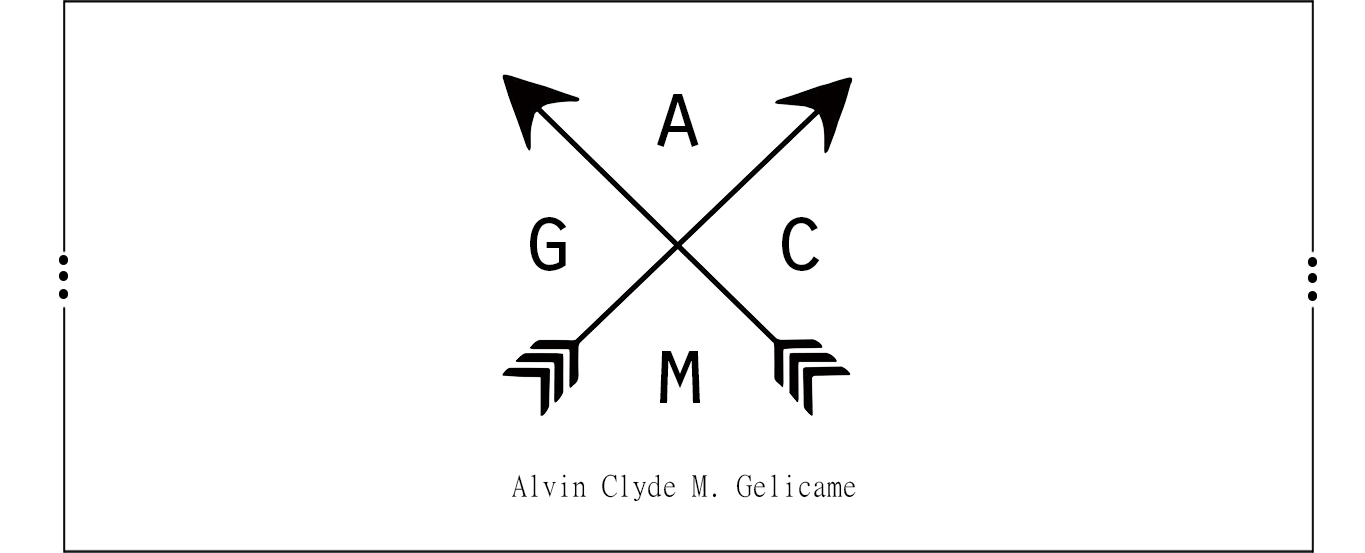
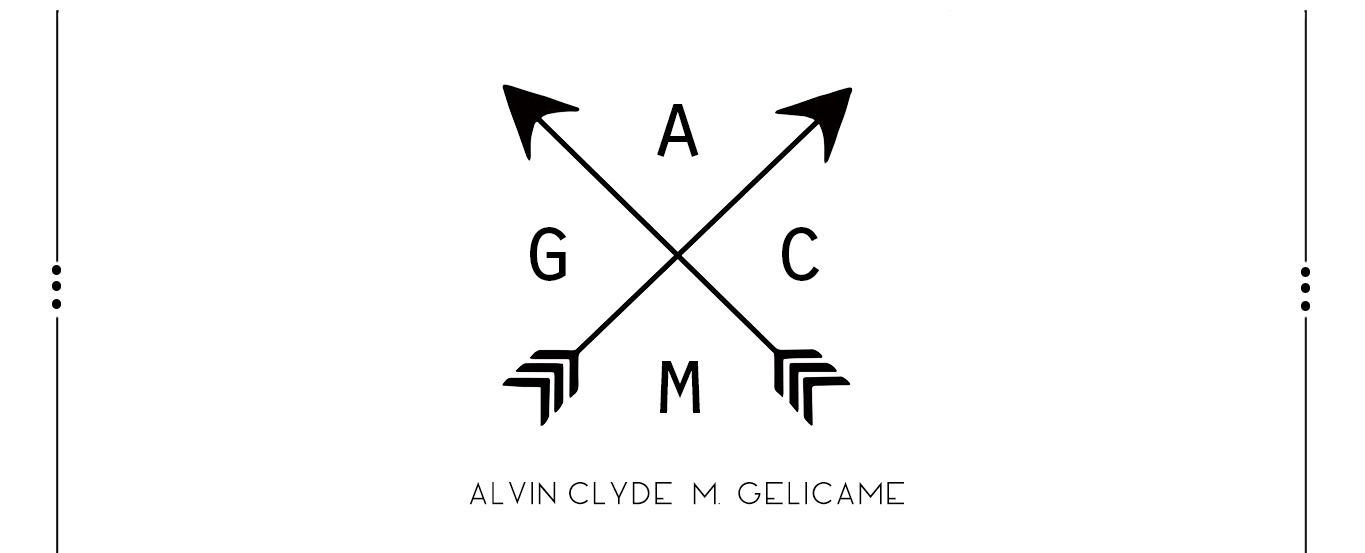
Modified background, Added photo about me, Added divider

diff --git a/Styles/Style.css b/Styles/Style.css
@@ -60,15 +60,20 @@
 	height: 5px;
 	padding-top: 81px;
 	background-color: #c45357;
+
 }
+
+
+
 
 #Header{
     width: 100%;
-    height: 74px;
+    height: 55px;
     background-color: black;
     position: fixed;
-    top: 0px;
+    top: -15px;
     left: 0px;
+    margin-bottom: 10px;
     
 }
 
@@ -78,34 +83,44 @@
 	height: 68px;  
 	background-color: #384255;
 	position: fixed; 
-	margin: 5px auto; 
+	margin: 0px auto; 
 }
 
-p, em{
+a {
 
-	font-family: "MingLiU-ExtB";
-	font-size: 20px;
-	text-align: center; 
-	margin-top: 23px;
-	margin-left: 35px;  
+	color: white;
+	font-family:MingLiU-ExtB; 
+	text-decoration: none;
+	font-size: 17px;
 	
 }
 
-p a:link, p a:visited, p a:active {
 
-	text-decoration: none;
-	color: white;
-	font-style: bold; 
+ul li {
+	
+	
+	float: right;
+	margin-right: 14.5%;
+	list-style: none;
+	width: 100px;
+	height: 55px;
+	text-align: center;
+	padding: 10px 0px 0px 0px;
+	
 }
 
-p a:hover {
+a:hover {
 
-	text-decoration: none;
-	color: White;
-	font-size: 20px; 
-	text-shadow: 1px 1px 1px white; 
+	color: grey;
 
 }
+
+
+ul li:hover {
+
+	color: black;
+}
+
 
 #footer{
 

diff --git a/index.html b/index.html
@@ -6,19 +6,29 @@
 
 </head>
 <body>
+	<div id="MainContainer">
+
 	<div id = "Header">
 
 	<div id = "Navbar">
-	<p>  <a href = "index.html"> Home |</a> &nbsp
-	     <a href = "About.html"> About |</a> &nbsp
-	     <a href = "Contacts.html"> Contacts |</a> &nbsp
-	     <a href = "Portraits.html"> Portraits </a> &nbsp &nbsp
-	</div> 
-	<div id = "body">
-	<img src = 'Images/Background.jpg'>
-	
+	<a id = "top"> </a>
+	<ul>
+	 <li>    <a href="#Portraits"> Portraits </a> &nbsp </li>
+	 <li>    <a href="#Contacts"> Contacts |</a> &nbsp </li>
+	 <li>    <a href="#About"> About |</a> &nbsp </li>
+	 <li>    <a href="#home"> Home | </a> &nbsp &nbsp </li>
+	<ul>
 	</div>
-
+	</div>
+	</div>
+	<a id = "home"> </a> <br> <br> <br>
+	<img src = 'Images/Background.jpg'> 
+	<img src = 'Images/divider.png'> 
+	</div>
+	<br> <br> <br> 
+	<a id = "About"> 
+	<img src = 'Images/Aboutme.jpg'>  <br> <br> <br> <br> <br> <br> <br>
+	</div>
 	<div id ="footer">
 
 	<center> <p> Copyright 2017 - AC Gelicame. All Rights Reserved. Personal Website </p>
